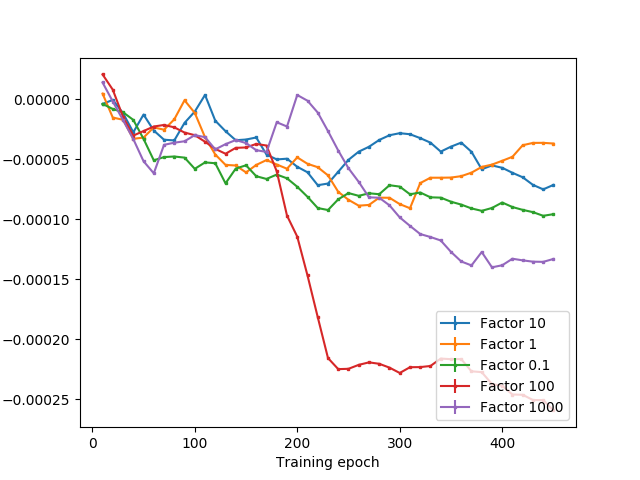
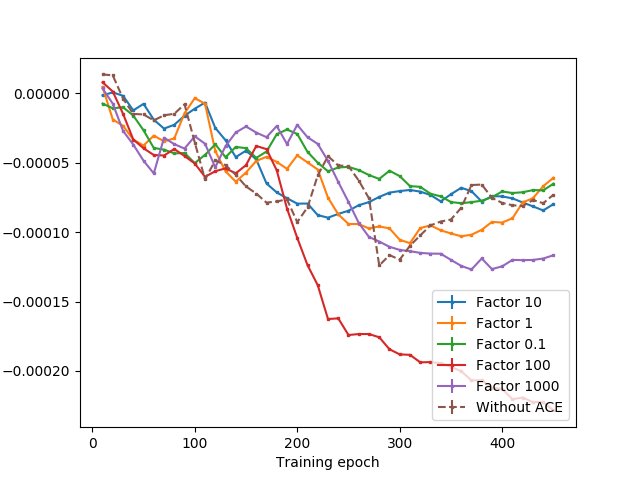
new plots

diff --git a/Project/plotting_ACE_withshift.py b/Project/plotting_ACE_withshift.py
@@ -33,14 +33,15 @@ ACEvalue_withACE_factor01_433=[ACEvalue_withACE_factor01_433_0,ACEvalue_withACE_
 
 #--------------41-----------------
 
-test_MSE_withACE_factor01_41=[0.0268,0.0253]
+test_MSE_withACE_factor01_41=[0.0268,0.0253,0.0252]
 
 ACEvalue_withACE_factor01_41_0=[9.58528772950455e-06, -1.0981058083143886e-06, -1.561972910980302e-05, -3.12566474978408e-05, -6.0182372191941107e-05, -9.162593153100906e-05, -8.357148614030309e-05, -6.3299415702444e-05, -5.870104327712505e-05, -6.723599864784503e-05, -5.9592590131586726e-05, -6.135034352088693e-05, -7.205456913977449e-05, -7.669116483198506e-05, -7.720129424562423e-05, -9.838080697231412e-05, -8.512573487788213e-05, -7.819847410785481e-05, -7.315671046382433e-05, -7.597281914653183e-05, -7.6596359590076e-05, -6.443185407923551e-05, -4.909855680291523e-05, -3.6401653352740785e-05, -4.177104872611474e-05, -5.277029815319173e-05, -5.28382225285238e-05, -5.8316695169505255e-05, -4.505672992496348e-05, -4.2162393719248516e-05, -4.688996637444709e-05, -4.058582971473901e-05, -3.6804331443800115e-05, -3.723995701747395e-05, -4.293327320528008e-05, -4.741162978676037e-05, -5.614367109243256e-05, -6.03836388650694e-05, -5.681515529947942e-05, -5.051395403186141e-05, -5.6749321818300146e-05, -5.8651768308195044e-05, -5.7978436255676345e-05, -5.965935331457477e-05, -5.821533979510555e-05]
 
 ACEvalue_withACE_factor01_41_1=[-1.724521133633482e-05, -1.5135526413611034e-05, -6.04207483993438e-06, -3.1131867998841916e-06, -5.805244199495096e-06, -1.0185038048944339e-05, -1.2826024146073587e-05, -3.214555393822222e-05, -3.861120648513176e-05, -4.8724647149455426e-05, -4.5687822778069896e-05, -4.5320051508616464e-05, -6.820118133300195e-05, -3.884232670489925e-05, -3.2930453261290397e-05, -2.9951867599663104e-05, -4.778963698434968e-05, -4.734147236709254e-05, -5.8731387236981315e-05, -6.993804338749934e-05, -8.608796259752173e-05, -0.00011699620941617807, -0.0001356366751015743, -0.0001304632462789755, -0.00011469226621980555, -0.00010828825338457136, -0.0001039639834398221, -0.00010002841655161862, -9.829977987765572e-05, -0.00010347898192013541, -0.00011156444372281563, -0.00011492470694817796, -0.00012673298676787935, -0.00012681471077268588, -0.00012792059091550152, -0.00012825638218783098, -0.0001259054288526861, -0.0001257058156933193, -0.00012448442242796672, -0.00012167961604525458, -0.00012301865811209484, -0.00012582584903211925, -0.0001302990576126284, -0.00013470940418533524, -0.0001334224264960547]
 
+ACEvalue_withACE_factor01_41_2=[-1.4215607322767967e-05, -1.5960292459847206e-05, -8.013008253444145e-06, -1.3623480418276206e-05, -1.3699107700389853e-05, -1.6132540387309574e-05, -2.508671724353367e-05, -3.421297532655108e-05, -3.150754336342637e-05, -3.4660468279085176e-05, -2.7568515102271073e-05, -3.3557419119336963e-06, 2.4544126152771694e-06, -9.205101333406065e-08, -8.230694119283485e-06, -1.0987577200598212e-05, 7.237736779909696e-06, 3.7415298387167175e-05, 5.3938358008574125e-05, 5.820227287004792e-05, 3.631522358601875e-05, 3.1633092082258485e-05, 1.631151349919238e-05, 6.7629055251983934e-06, -2.3980918291351537e-06, -4.6314429170890104e-06, -1.971285697048034e-05, -2.6547153858257645e-05, -2.3720227910570204e-05, -3.323632770726078e-05, -4.198845051224199e-05, -4.645587620217891e-05, -5.335000576584086e-05, -5.8548867364175216e-05, -6.396929889574103e-05, -6.180610617825469e-05, -5.2994288772063385e-05, -4.5931678870314914e-05, -4.301490939181218e-05, -3.982122792177105e-05, -3.562079518416906e-05, -2.9167823690656372e-05, -2.0753748240086595e-05, -1.5194844953947902e-05, -3.564942575385876e-06]
 
-ACEvalue_withACE_factor01_41=[ACEvalue_withACE_factor01_41_0,ACEvalue_withACE_factor01_41_1]
+ACEvalue_withACE_factor01_41=[ACEvalue_withACE_factor01_41_0,ACEvalue_withACE_factor01_41_1,ACEvalue_withACE_factor01_41_2]
 
 #--------------Factor1-----------------
 
@@ -70,14 +71,15 @@ ACEvalue_withACE_factor1_433=[ACEvalue_withACE_factor1_433_0,ACEvalue_withACE_fa
 
 #--------------41-----------------
 
-test_MSE_withACE_factor1_41=[0.0253,0.0242]
+test_MSE_withACE_factor1_41=[0.0253,0.0242,0.0269]
 
 ACEvalue_withACE_factor1_41_0=[-3.629949225648499e-07, -1.5287536461671687e-05, -2.69816637966994e-05, -4.6406720853333346e-05, -4.283426151704518e-05, -3.134353036167222e-05, -3.573931473147739e-05, -3.230399444110336e-05, 1.3808269550747529e-05, 5.0445576077735495e-06, -3.378975624597042e-05, -5.021799377796266e-05, -6.0464852076225464e-05, -4.205957340073287e-05, -2.7943337491100682e-05, -3.2765825271559555e-05, -2.871784225557706e-05, -2.80249297138333e-05, -3.2179232079756635e-05, -1.7975028628902735e-05, -3.167487751790633e-05, -4.643977946436626e-05, -4.113902538589711e-05, -4.54559681647133e-05, -4.9468171648743946e-05, -4.667107256018825e-05, -4.210396931070177e-05, -3.2625743754092744e-05, -3.0388411310482802e-05, -2.6400237992333694e-05, -2.3726232732111617e-05, -1.2619289507655297e-05, -8.678327677657925e-06, -8.960175188747917e-06, -1.0295678624913195e-05, -1.2488721359125654e-05, -1.331797914357312e-05, -1.1904243613460505e-05, -1.1647015335597422e-05, -1.0689558988626077e-05, -1.0912996451764461e-05, 7.137451790504373e-07, -2.467752343953827e-06, -5.19611047340151e-06, -5.291560596908869e-06]
 
 ACEvalue_withACE_factor1_41_1=[9.886816188854388e-06, -1.5197153925568415e-05, -7.161646568066874e-06, -1.9509416122373493e-05, -2.1063082897129263e-05, -1.5580477583009696e-05, -1.497987781960964e-05, -1.1348549010605331e-06, -1.545533685188666e-05, -2.777203708925249e-05, -2.9543393225675835e-05, -4.1912655659115916e-05, -4.898499246993236e-05, -6.838490238555384e-05, -9.404765580144231e-05, -7.674569048594568e-05, -7.262941399118144e-05, -8.077100113248217e-05, -8.36507936064666e-05, -7.893298181084363e-05, -7.594449610962111e-05, -6.68638985127442e-05, -8.57781953840059e-05, -0.00010892997763441061, -0.00011825597351500591, -0.00013080342381359875, -0.00013412515115250685, -0.00013147794414217285, -0.00013390240918178343, -0.0001484370993146858, -0.00015802233650753685, -0.00012719345170864285, -0.00012214300913515307, -0.0001218720137409384, -0.0001202861501887172, -0.00011574930390159953, -0.00010906955255155926, -0.000100944405415933, -9.730081251162666e-05, -9.190500187874322e-05, -8.496889363160763e-05, -7.73401882302412e-05, -7.028233884502143e-05, -6.745390257527527e-05, -6.8498637146269e-05]
 
+ACEvalue_withACE_factor1_41_2=[4.724930724863732e-06, -2.58728356985023e-05, -3.5811559461436325e-05, -3.3974894938064055e-05, -4.872227679624633e-05, -4.440231935522222e-05, -5.275074452147793e-05, -6.386169865521879e-05, -4.119007567001918e-05, 1.2580097234066429e-05, 4.114327114996595e-05, -3.2254280027294206e-05, -5.89268347070593e-05, -8.033114014911127e-05, -4.908946555531724e-05, -3.645080606973282e-05, -3.5732190087465567e-05, -3.939829353499947e-05, -4.7174341766578247e-05, -3.707394282599113e-05, -4.1528332872348086e-05, -5.125793079790528e-05, -9.85487428187668e-05, -0.00010706869347487906, -0.00011457990507640013, -0.00010501355749494358, -0.00011581332399948681, -0.00012354791295590955, -0.000127558728265542, -0.00014166291849515892, -0.00014205294786191622, -0.00015137335453894218, -0.00015449057216112191, -0.00016519145226343338, -0.00017222867534727302, -0.0001806282125135246, -0.0001832432606242396, -0.00018206475526629673, -0.0001688918810930766, -0.00017659173355361464, -0.00017406324654883364, -0.00015905363808842732, -0.00015375507653290162, -0.0001279106057058406, -0.00010860180089226073]
 
-ACEvalue_withACE_factor1_41=[ACEvalue_withACE_factor1_41_0,ACEvalue_withACE_factor1_41_1]
+ACEvalue_withACE_factor1_41=[ACEvalue_withACE_factor1_41_0,ACEvalue_withACE_factor1_41_1,ACEvalue_withACE_factor1_41_2]
 
 #--------------Factor10-----------------
 
@@ -109,13 +111,14 @@ ACEvalue_withACE_factor10_433_2=[-7.023178734428515e-06, 3.0202942584982034e-05,
 ACEvalue_withACE_factor10_433=[ACEvalue_withACE_factor10_433_0,ACEvalue_withACE_factor10_433_1,ACEvalue_withACE_factor10_433_2]
 #--------------41-----------------
 
-test_MSE_withACE_factor10_41=[0.0272,0.0212]
+test_MSE_withACE_factor10_41=[0.0272,0.0212,0.0292]
 
 ACEvalue_withACE_factor10_41_0=[-1.053763837421553e-05, -7.925664434934217e-08, -5.431338142246523e-07, -1.1217989078058485e-05, 1.7963222114120081e-06, -1.2000626168389062e-05, 5.8352656565287965e-06, 1.4913566411283884e-06, 2.4571461355608873e-05, -6.246969347427362e-06, -3.481054531931671e-07, 2.7167682784801134e-06, -7.3289420659713755e-06, -1.380618210563353e-05, -2.9306034672339012e-05, -4.099031311775799e-05, -6.679276713974536e-05, -7.395875544399474e-05, -7.192915965128546e-05, -7.999391643369475e-05, -8.20136885019547e-05, -8.592348761319605e-05, -7.968137081915662e-05, -7.647590425379451e-05, -6.84969915300347e-05, -6.615420711716647e-05, -6.87191245988415e-05, -6.521839728572027e-05, -6.226113445096075e-05, -6.358090292158748e-05, -6.335000852225173e-05, -6.557426090174951e-05, -6.215111661618552e-05, -6.611228373325614e-05, -6.819630087203427e-05, -6.029497440084795e-05, -5.516609836692397e-05, -5.856781783358279e-05, -6.18317223612628e-05, -6.665278614436712e-05, -7.01700964828648e-05, -7.415920320721315e-05, -8.246226730192735e-05, -8.817252214314283e-05, -9.23988043440794e-05]
 ACEvalue_withACE_factor10_41_1=[2.683969459548603e-06, -8.913732530033566e-07, -2.2543424720971616e-05, -4.3887048884860056e-05, -2.7268230019944105e-05, -4.0130508776011525e-05, -7.326606242344067e-05, -7.01179312661278e-05, -6.394415007240434e-05, -1.4244278168713266e-05, 7.6039569175995425e-06, -3.841358495323262e-05, -4.5911172872086696e-05, -5.448492892194464e-05, -3.781913660280819e-05, -2.27256133346055e-05, -2.546836212195442e-05, -2.637690364784679e-05, -2.715529807577613e-05, -3.2601097193962834e-05, -3.9754069491719846e-05, -5.739489529664016e-05, -6.085293202595524e-05, -4.4390364499595525e-05, -3.24780406788541e-05, -2.1184469870108255e-05, -1.0481701966242024e-05, -2.6202306539556336e-06, 2.288255821834116e-06, 7.033229838554608e-06, 5.060595355767426e-06, 7.953004031109334e-07, -1.0189349813776187e-05, -2.114518963700595e-05, -1.0806636342282214e-05, -1.1980717370160911e-05, -3.243186231302076e-05, -5.816090277675279e-05, -4.846402555130809e-05, -4.7635498996844855e-05, -5.248487233307863e-05, -5.595990084033874e-05, -6.034084682908405e-05, -6.209426607933334e-05, -5.04302991966166e-05]
+ACEvalue_withACE_factor10_41_2=[3.9548907685634535e-06, 3.168747446423536e-06, 1.803868251078363e-05, 1.83831995348537e-05, 3.007022607489661e-06, -4.581194777399719e-06, -8.573880154066331e-06, 8.62614526052515e-07, -8.801050650669744e-06, -1.251216540274353e-05, -2.6987237172306016e-05, -3.8897449545573744e-05, -4.7908503426370363e-05, -6.940943609172787e-05, -5.654771367009228e-05, -7.905440386765674e-05, -0.00010248554599283034, -0.00011376587831610948, -0.000127558448300893, -0.00012569782206067775, -0.00011638771237550327, -0.0001198158897908309, -0.00012814553116905614, -0.00013970249424919115, -0.0001526716903602751, -0.0001544207525792147, -0.0001557763755250499, -0.00015594394608714192, -0.0001545033855842758, -0.00015458019041266152, -0.00015044919061938799, -0.0001475182219738802, -0.00014726175693798894, -0.00014622552011009528, -0.00013895744815084357, -0.00013175222806931773, -0.00012371999906864533, -0.0001170420133283889, -0.00011182852864617878, -0.00010834123956014056, -0.0001042818073725985, -0.00010571493798238397, -0.00010143929594709389, -0.000102807502528183, -9.646921126567375e-05]
 
 
-ACEvalue_withACE_factor10_41=[ACEvalue_withACE_factor10_41_0,ACEvalue_withACE_factor10_41_1]
+ACEvalue_withACE_factor10_41=[ACEvalue_withACE_factor10_41_0,ACEvalue_withACE_factor10_41_1,ACEvalue_withACE_factor10_41_2]
 
 #--------------Factor100-----------------
 
@@ -147,13 +150,15 @@ ACEvalue_withACE_factor100_433=[ACEvalue_withACE_factor100_433_0,ACEvalue_withAC
 
 #--------------41-----------------
 
-test_MSE_withACE_factor100_41=[0.0439,0.0316]
+test_MSE_withACE_factor100_41=[0.0439,0.0316,0.0256]
 
 ACEvalue_withACE_factor100_41_0=[4.457329449279223e-05, 3.2504732797245585e-05, -2.315716787142416e-06, -8.491234843408555e-06, -4.222321867721699e-06, -1.0513941339950248e-05, -2.3786258068866433e-05, -2.2950168542129846e-05, -2.7103707928128504e-05, -2.7163888432105638e-05, -2.5122649455508945e-05, -4.101715607172844e-05, -2.549551307687564e-05, 1.4833971977988274e-05, 3.606352859053165e-06, -1.847441162954937e-05, -1.711173288105359e-05, -3.663815328492195e-05, -6.739969986985476e-05, -8.410296697916467e-05, -0.00013673995173110506, -0.00019545938781087726, -0.0002580664560607337, -0.0002630440194007468, -0.0002676726631626536, -0.0002554542212919786, -0.0002526072689878831, -0.0002517353279461467, -0.0002514281420441199, -0.0002581016988621454, -0.00025792811099457935, -0.0002699356364557122, -0.0002671364210619462, -0.000261926459725786, -0.0002689661163816088, -0.00027479987416529614, -0.0002843696437897977, -0.0002884622600683109, -0.0002998068737567404, -0.00030326834327311977, -0.00030914303557172537, -0.00031368088250220894, -0.0003269763679642404, -0.0003355437933231728, -0.0003476672335660364]
 
 ACEvalue_withACE_factor100_41_1=[-3.047955155030535e-06, -1.6520293719622613e-05, -2.6944552154611602e-05, -5.205827472464416e-05, -4.8742657558494514e-05, -3.4914420666037606e-05, -1.900586276865381e-05, -2.386026211898128e-05, -2.83729786217666e-05, -3.2697867646932934e-05, -4.5687178225434714e-05, -4.171285985447331e-05, -6.535162126029778e-05, -9.585425195517484e-05, -8.395364054009847e-05, -5.6010403301019656e-05, -6.002938376207941e-05, -8.365248424472862e-05, -0.00012665113325193458, -0.00014504476638169326, -0.0001571547761741638, -0.0001680084136202987, -0.00017363725109512197, -0.00018710836651895615, -0.00018194076599354443, -0.00018756573038171455, -0.00018625591684638408, -0.00018951403436074174, -0.00019621380535389844, -0.00019846567459472572, -0.00018902503238896158, -0.0001768250429417901, -0.0001777529154885122, -0.00017059822292527557, -0.00016459028278273117, -0.00015863157852213746, -0.000169411044365091, -0.00016673663078969656, -0.0001752059109111505, -0.00017473671166077823, -0.0001833511855695326, -0.00017928630401623153, -0.00017469719390398298, -0.0001662778943466377, -0.00017131442395435507]
 
-ACEvalue_withACE_factor100_41=[ACEvalue_withACE_factor100_41_0,ACEvalue_withACE_factor100_41_1]
+ACEvalue_withACE_factor100_41_2=[-1.7336115751107807e-05, -1.1952595025086533e-05, -1.4787661421683773e-05, -3.916515414565351e-05, -6.555300683142785e-05, -8.77488450837426e-05, -9.141617123076301e-05, -7.336604802147658e-05, -7.98480267435277e-05, -9.171212434550525e-05, -0.00010955578408957844, -8.543196232752432e-05, -7.116503930700241e-05, -9.162726026541781e-05, -7.476482305462262e-05, -3.914764777821586e-05, -4.3298455544036024e-05, -4.617030595887865e-05, -5.484850755471932e-05, -8.333693311478585e-05, -7.73111150960392e-05, -5.1236273860273416e-05, -5.616994948414417e-05, -3.625524704797848e-05, -7.285187812099703e-05, -7.729671883562643e-05, -8.150725056835059e-05, -8.610839890428854e-05, -0.00010561223310871579, -0.0001078349313977674, -0.00011831726067118262, -0.000134711940423553, -0.00013618599198261558, -0.00015063974309470992, -0.00015791808096766617, -0.00016733728303914994, -0.00016674772862549218, -0.0001648711182239797, -0.0001613866152793205, -0.00016097421895636187, -0.00016875094791503375, -0.00016478525979112207, -0.00016594947585572506, -0.00016546510839321552, -0.00016647356240254727]
+
+ACEvalue_withACE_factor100_41=[ACEvalue_withACE_factor100_41_0,ACEvalue_withACE_factor100_41_1,ACEvalue_withACE_factor100_41_2]
 
 #--------------Factor1000-----------------
 
@@ -182,14 +187,16 @@ ACEvalue_withACE_factor1000_433=[ACEvalue_withACE_factor1000_433_0,ACEvalue_with
 
 #--------------41-----------------
 
-test_MSE_withACE_factor1000_41=[0.0245,0.0265]
+test_MSE_withACE_factor1000_41=[0.0245,0.0265,0.0252]
 
 ACEvalue_withACE_factor1000_41_0=[1.367274302288671e-05, 1.1725682620248445e-05, -8.159891610828614e-06, -2.1015079056812164e-05, -2.808702536008642e-05, -1.9430678507612368e-05, -1.3864875320000987e-06, 3.106428933442215e-06, -1.1394613006489849e-06, 4.110409243372416e-06, -5.728113021305245e-07, -2.5994370924478116e-05, -2.9607605218810214e-05, -3.2136869625535284e-05, -4.460646596121104e-05, -4.554925185084297e-05, -5.376823597292229e-05, -2.2366175176460122e-05, -2.429810857456763e-05, -3.2895817243857536e-06, -1.2683608873476056e-05, -2.130153127423331e-05, -3.843994306887148e-05, -5.1099547886891766e-05, -6.312949453178882e-05, -7.686815547793806e-05, -9.503282020357419e-05, -9.45384194212436e-05, -9.702891809714179e-05, -0.00010675543832806332, -0.00011180171162134915, -0.00011017461446133697, -0.00011492360763015115, -0.00011928566834168092, -0.00012023671166324407, -0.00012211851844288964, -0.00012073619780150367, -0.0001176695938130975, -0.0001146544626103297, -0.0001172418201003518, -0.00011752024605893646, -0.00011690601449611032, -0.00011513669289993269, -0.0001090096482818548, -0.00010992182637349212]
 
 ACEvalue_withACE_factor1000_41_1=[1.4412686562412591e-05, -1.542782431009144e-05, -2.6539413179177732e-05, -4.5284810408331624e-05, -7.522986350542178e-05, -0.00010406621491776493, -7.460486868873273e-05, -7.551416727919159e-05, -6.889225022225682e-05, -6.388391863801044e-05, -6.25816465337883e-05, -5.75472820043643e-05, -4.526408536351373e-05, -3.5852754211858604e-05, -2.8427084267834898e-05, -3.939367412004589e-05, -3.400249721843503e-05, -1.5955810270492272e-05, -2.110760648482154e-05, 1.0452091145861721e-05, 1.0291583802785888e-05, -8.693583603016349e-07, -1.4668698081711786e-05, -3.444455791605562e-05, -5.197248641222599e-05, -6.0984579005865135e-05, -6.850566306805391e-05, -6.971107622785131e-05, -7.989077339939986e-05, -9.027269165392728e-05, -9.939693138512412e-05, -0.0001146267793548414, -0.0001148504055933081, -0.00011620988564218806, -0.00013430671356531762, -0.00014839798310822122, -0.00015641813635887343, -0.00013714885286670938, -0.00016566052863802933, -0.00015963492779983023, -0.00014845163576081622, -0.00015180740910232038, -0.00015574307141111938, -0.00016219249565767164, -0.00015642969683421376]
 
+ACEvalue_withACE_factor1000_41_2=[-1.7211912952112277e-05, -1.8426200931172182e-05, -4.624679017803482e-05, -4.432359064808378e-05, -4.219436564579621e-05, -4.9439709279007305e-05, -1.9791961272520206e-05, -3.7220596421726344e-05, -4.9193255323411015e-05, -3.28846471501596e-05, -4.5604854704664065e-05, -7.625833650893511e-05, -3.896545104012944e-05, -1.643629870076856e-05, 1.5972105395968674e-06, 3.213045627745016e-07, -6.831928256064524e-06, -3.21232210981627e-05, -6.410492718884698e-05, -7.507285635218644e-05, -9.234429217118873e-05, -8.699334978166868e-05, -9.271914858022674e-05, -0.00010587378169229937, -0.0001195948173028885, -0.00014225185133955466, -0.00014690997143033, -0.0001560822335937337, -0.00015473774895550312, -0.0001413840469157973, -0.000129962015401092, -0.00012001422340570596, -0.00011662588831147246, -0.0001110984028071687, -0.00010542980235251906, -0.00010245676075391616, -0.00010358401525046802, -0.0001021385481452959, -9.957889493095382e-05, -9.695977947372449e-05, -9.400199371108179e-05, -9.180350539950926e-05, -8.922054483770657e-05, -8.58416417368167e-05, -8.361456936381807e-05]
 
-ACEvalue_withACE_factor1000_41=[ACEvalue_withACE_factor1000_41_0,ACEvalue_withACE_factor1000_41_1]
+
+ACEvalue_withACE_factor1000_41=[ACEvalue_withACE_factor1000_41_0,ACEvalue_withACE_factor1000_41_1,ACEvalue_withACE_factor1000_41_2]
 
 #--------------NoACE-----------------
 
@@ -223,11 +230,12 @@ ACEvalue_noACE_433=[ACEvalue_noACE_433_0,ACEvalue_noACE_433_1,ACEvalue_noACE_433
 
 #--------------41-----------------
 
-#test_MSE_noACE_41=[]
+test_MSE_noACE_41=[0.0274]
 
-#ACEvalue_noACE_41_0=
+ACEvalue_noACE_41_0=[1.3728836972033097e-05, 1.3001325077610563e-05, -3.703524868434497e-06, -1.4756879324498024e-05, -1.5164471162562105e-05, -1.942075880795274e-05, -1.5728412958995832e-05, -1.4681778166350432e-05, -7.791018820009403e-06, -3.5369282326781683e-05, -6.193099305877405e-05, -4.8298667526567236e-05, -5.169536067313196e-05, -5.8652784750815905e-05, -6.707374594515481e-05, -7.2157026227472e-05, -7.874203907446542e-05, -7.782855815688474e-05, -7.64111166341283e-05, -9.273958573721773e-05, -8.209906926294182e-05, -5.909298859824528e-05, -4.521741861676929e-05, -5.1923123176245825e-05, -5.2409014481119224e-05, -6.280265006815767e-05, -7.56187856667809e-05, -0.00012400746729916446, -0.00011653263245804686, -0.00011983068294976398, -0.00010977012119274185, -0.00010232070085644842, -9.51266933544499e-05, -9.23244847997962e-05, -9.087509756661993e-05, -8.24287102574751e-05, -6.604586474578811e-05, -6.568492207606221e-05, -7.527819314872128e-05, -7.892925101193373e-05, -8.058349854839064e-05, -8.117316509744196e-05, -7.684161424756338e-05, -7.912543423829391e-05, -7.301699606200135e-05]
 
-#ACEvalue_noACE_41=[ACEvalue_noACE_41_0]
+
+ACEvalue_noACE_41=[ACEvalue_noACE_41_0]
 
 #--------------Plotting 369-----------------
 
@@ -327,8 +335,8 @@ plt.close()
 #--------------Plotting 41-----------------
 
 
-#var_noACE_41=np.var(ACEvalue_noACE_41, axis=0)
-#mean_noACE_41=np.mean(ACEvalue_noACE_41, axis=0)
+var_noACE_41=np.var(ACEvalue_noACE_41, axis=0)
+mean_noACE_41=np.mean(ACEvalue_noACE_41, axis=0)
 #print(var.shape)
 #print(mean.shape)
 x_axis=[10,20,30,40,50,60,70,80,90,100,110,120,130,140,150,160,170,180,190,200,210,220,230,240,250,260,270,280,290,300,310,320,330,340,350,360,370,380,390,400,410,420,430,440,450]
@@ -343,7 +351,7 @@ plt.errorbar(x_axis, np.mean(ACEvalue_withACE_factor1_41, axis=0), yerr=np.var(A
 plt.errorbar(x_axis, np.mean(ACEvalue_withACE_factor01_41, axis=0), yerr=np.var(ACEvalue_withACE_factor01_41, axis=0), linestyle='-', marker='s', markersize=2, label="Factor 0.1")
 plt.errorbar(x_axis, np.mean(ACEvalue_withACE_factor100_41, axis=0), yerr=np.var(ACEvalue_withACE_factor100_41, axis=0), linestyle='-', marker='s', markersize=2, label="Factor 100")
 plt.errorbar(x_axis, np.mean(ACEvalue_withACE_factor1000_41, axis=0), yerr=np.var(ACEvalue_withACE_factor1000_41, axis=0), linestyle='-', marker='s', markersize=2, label="Factor 1000")
-#plt.errorbar(x_axis, mean_noACE_41, yerr=var_noACE_41, linestyle='--', marker='s', markersize=2, label="Without ACE")
+plt.errorbar(x_axis, mean_noACE_41, yerr=var_noACE_41, linestyle='--', marker='s', markersize=2, label="Without ACE")
 #plt.plot(x_axis,ACEvalue_noACE_factor1000, label="No ACE")
 plt.xlabel('Training epoch')
 plt.ylabel('Average causal effect (ACE)')
@@ -357,15 +365,15 @@ my_xticks = ['Factor 0.1','Factor 1','Factor 10','Factor 100','Factor 1000']
 means_with_ACE_test_MSE_41=[np.mean(test_MSE_withACE_factor01_41),np.mean(test_MSE_withACE_factor1_41),np.mean(test_MSE_withACE_factor10_41),np.mean(test_MSE_withACE_factor100_41),np.mean(test_MSE_withACE_factor1000_41)]
 var_with_ACE_test_MSE_41=[np.var(test_MSE_withACE_factor01_41),np.var(test_MSE_withACE_factor1_41),np.var(test_MSE_withACE_factor10_41),np.var(test_MSE_withACE_factor100_41),np.var(test_MSE_withACE_factor1000_41)]
 
-#var_41=np.var(test_MSE_noACE_41)
-#mean_41=np.mean(test_MSE_noACE_41)
-#without_ACE_test_MSE_41=[mean_41,mean_41,mean_41,mean_41,mean_41]
+var_41=np.var(test_MSE_noACE_41)
+mean_41=np.mean(test_MSE_noACE_41)
+without_ACE_test_MSE_41=[mean_41,mean_41,mean_41,mean_41,mean_41]
 
 plt.xticks(x_axis, my_xticks)
 #plt.plot(x_axis,with_ACE_test_MSE, marker='o', markersize=2,label="With ACE")
 #plt.plot(x_axis,without_ACE_test_MSE, marker='o', label="Without ACE")
 plt.errorbar(x_axis, means_with_ACE_test_MSE_41, yerr=var_with_ACE_test_MSE_41, linestyle='-', marker='s', markersize=2, label="With ACE")
-#plt.errorbar(x_axis, without_ACE_test_MSE_41, yerr=var_41, linestyle='--', marker='s', markersize=2, label="Without ACE")
+plt.errorbar(x_axis, without_ACE_test_MSE_41, yerr=var_41, linestyle='--', marker='s', markersize=2, label="Without ACE")
 plt.xlabel('Factors')
 plt.ylabel('Mean Square Error (MSE)')
 plt.legend(loc='upper right')
@@ -382,7 +390,7 @@ plt.xticks(x_axis, my_xticks)
 #plt.plot(x_axis,with_ACE_test_MSE, marker='o', markersize=2,label="With ACE")
 #plt.plot(x_axis,without_ACE_test_MSE, marker='o', label="Without ACE")
 plt.errorbar(x_axis, means_with_ACE_test_MSE_41, yerr=var_with_ACE_test_MSE_41, linestyle='-', marker='s', markersize=2, label="With ACE 41")
-#plt.errorbar(x_axis, without_ACE_test_MSE_41, yerr=var_41, linestyle='--', marker='s', markersize=2, label="Without ACE 41")
+plt.errorbar(x_axis, without_ACE_test_MSE_41, yerr=var_41, linestyle='--', marker='s', markersize=2, label="Without ACE 41")
 plt.errorbar(x_axis, means_with_ACE_test_MSE_433, yerr=var_with_ACE_test_MSE_433, linestyle='-', marker='s', markersize=2, label="With ACE 433")
 plt.errorbar(x_axis, without_ACE_test_MSE_433, yerr=var_433, linestyle='--', marker='s', markersize=2, label="Without ACE 433")
 plt.errorbar(x_axis, means_with_ACE_test_MSE_369, yerr=var_with_ACE_test_MSE_369, linestyle='-', marker='s', markersize=2, label="With ACE 369")
@@ -391,8 +399,8 @@ plt.errorbar(x_axis, without_ACE_test_MSE_369, yerr=var_369, linestyle='--', mar
 mean_overall_withACE=np.mean([means_with_ACE_test_MSE_41,means_with_ACE_test_MSE_433,means_with_ACE_test_MSE_369],axis=0)
 var_overall_withACE=np.mean([var_with_ACE_test_MSE_41,var_with_ACE_test_MSE_433,var_with_ACE_test_MSE_369],axis=0)
 
-mean_overall_noACE=np.mean([without_ACE_test_MSE_433,without_ACE_test_MSE_369],axis=0)#without_ACE_test_MSE_41
-var_overall_noACE=np.mean([var_433,var_369],axis=0)#var_41
+mean_overall_noACE=np.mean([without_ACE_test_MSE_41,without_ACE_test_MSE_433,without_ACE_test_MSE_369],axis=0)
+var_overall_noACE=np.mean([var_41,var_433,var_369],axis=0)
 
 plt.errorbar(x_axis, mean_overall_withACE, yerr=var_overall_withACE, linestyle='-', marker='s', markersize=2, label="With ACE")
 plt.errorbar(x_axis, mean_overall_noACE, yerr=var_overall_noACE, linestyle='--', marker='s', markersize=2, label="Without ACE")
